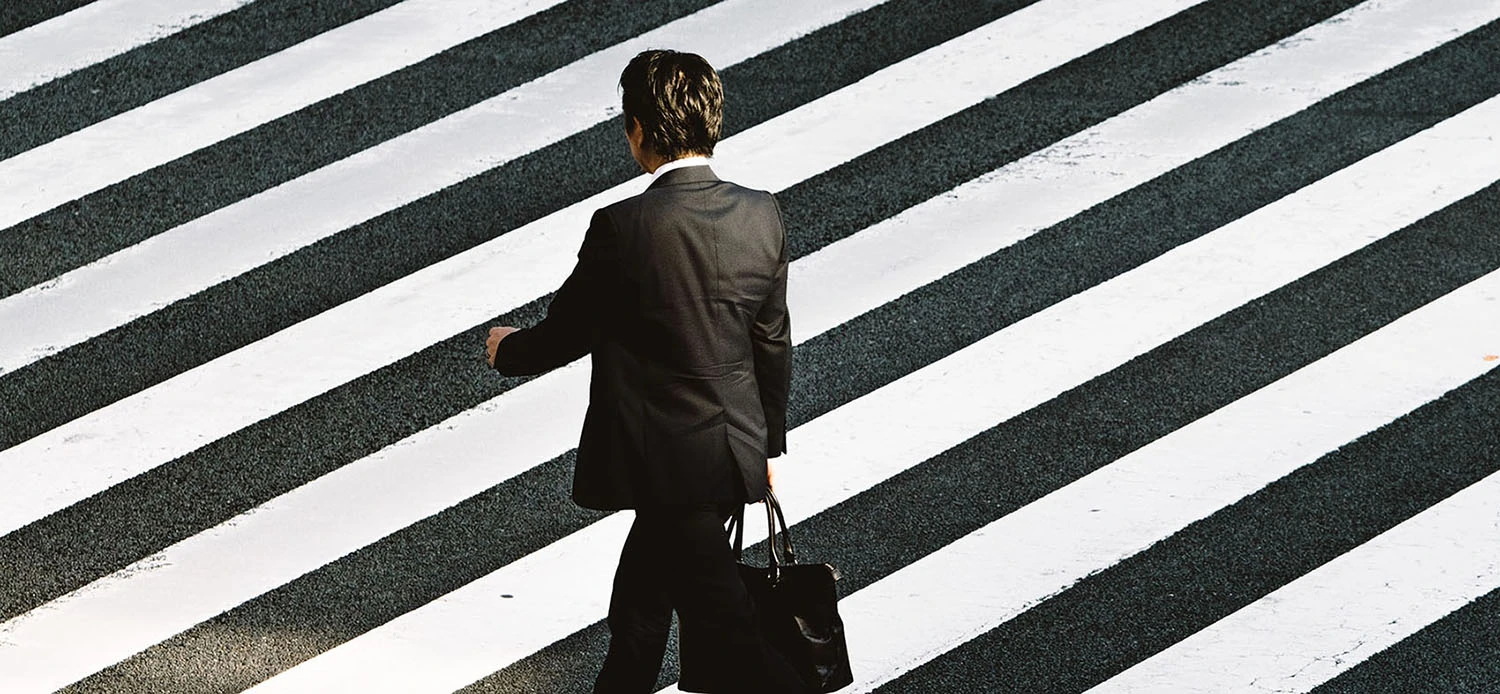
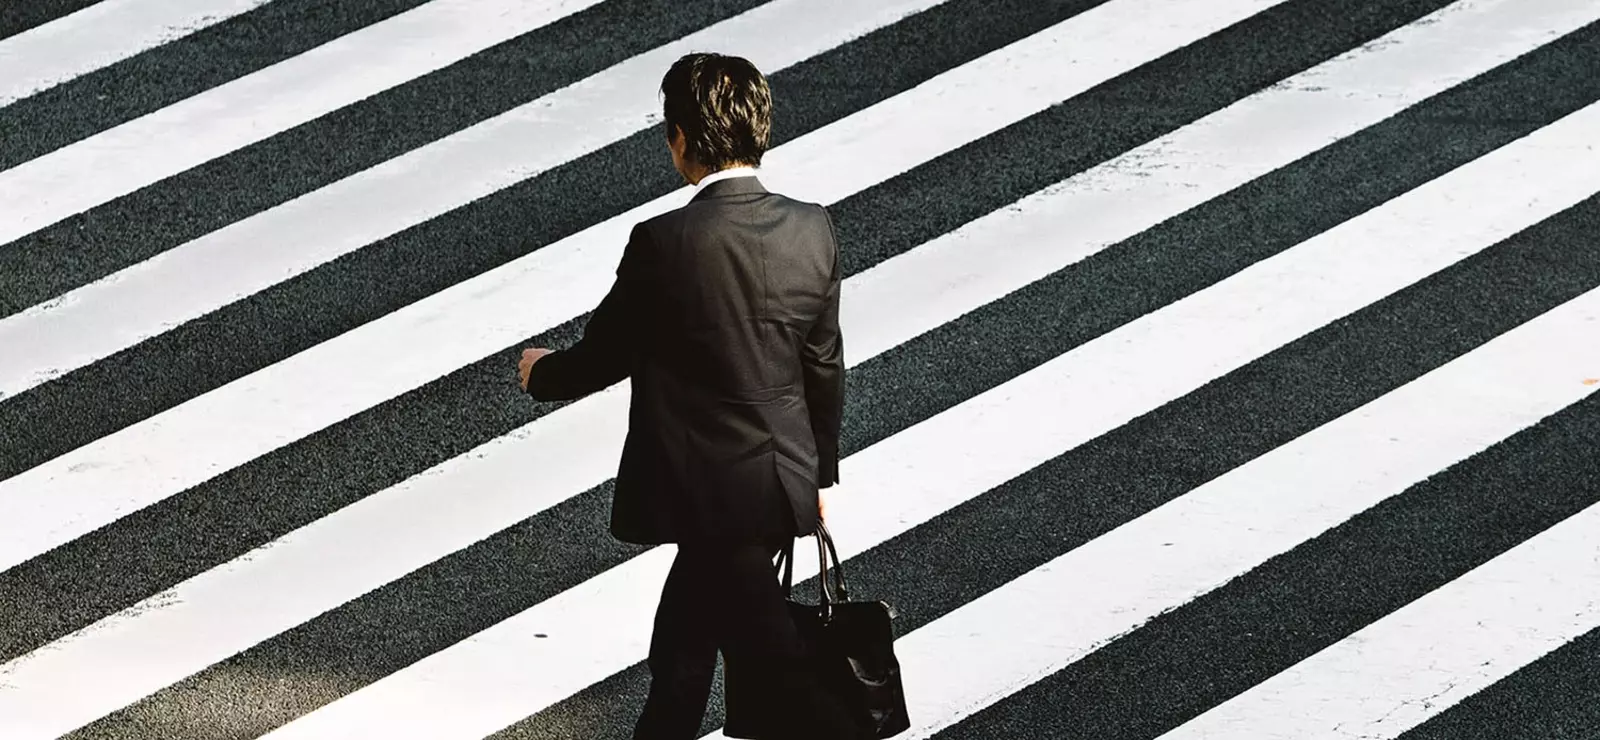
Feat: ajout srcset avec différentes tailles d'images

diff --git a/index.html b/index.html
@@ -4,26 +4,16 @@
     <meta charset="UTF-8">
     <meta name="viewport" content="width=device-width, initial-scale=1.0">
     <title>Bienvenue : Nina Carducci Portfolio</title>
-    <meta
-      name="description"
-      content="Portfolio photographe Nina Carducci, shooting photo, album photos, retouches"
-  >
+    <meta name="description" content="Portfolio photographe Nina Carducci, shooting photo, album photos, retouches">
     <!--Links-->
     <link rel="stylesheet" href="./assets/bootstrap/bootstrap.css" >
     <link rel="stylesheet" href="./assets/style.css" >
     <link rel="preconnect" href="https://fonts.googleapis.com" >
     <link rel="preconnect" href="https://fonts.gstatic.com" crossorigin >
-    <link
-      rel="stylesheet"
-      href="https://fonts.googleapis.com/css2?family=Inter&family=Spectral:ital,wght@0,400;1,300;1,400;1,800&display=swap"
-    >
+    <link rel="stylesheet" href="https://fonts.googleapis.com/css2?family=Inter&family=Spectral:ital,wght@0,400;1,300;1,400;1,800&display=swap">
     <!--Scripts-->
     <script defer src="./assets/bootstrap/bootstrap.bundle.js"></script>
-    <script
-      src="https://code.jquery.com/jquery-3.4.1.min.js"
-      integrity="sha256-CSXorXvZcTkaix6Yvo6HppcZGetbYMGWSFlBw8HfCJo="
-      crossorigin="anonymous"
-    ></script>
+    <script src="https://code.jquery.com/jquery-3.4.1.min.js" integrity="sha256-CSXorXvZcTkaix6Yvo6HppcZGetbYMGWSFlBw8HfCJo=" crossorigin="anonymous"></script>
     <script defer src="./assets/maugallery.js"></script>
     <script defer src="./assets/scripts.js"></script>
   </head>
@@ -82,21 +72,24 @@
           <div class="carousel-item active">
             <img
               src="./assets/images/slider/ryoji-iwata.webp"
-              class="d-block w-100 h-100"
+              srcset="./assets/images/slider/ryoji-iwata-medium.webp 1000w, ./assets/images/slider/ryoji-iwata-small.webp 500w"
+              class="d-block w-100"
               alt="Ryoji Iwata"
             >
           </div>
           <div class="carousel-item">
             <img
               src="./assets/images/slider/nicholas-green.webp"
-              class="d-block w-100 h-100"
+              srcset="./assets/images/slider/nicholas-green-medium.webp 1000w, ./assets/images/slider/nicholas-green-small.webp 500w"
+              class="d-block w-100"
               alt="Nicholas Green"
             >
           </div>
           <div class="carousel-item">
             <img
               src="./assets/images/slider/edward-cisneros.webp"
-              class="d-block w-100 h-100"
+              srcset="./assets/images/slider/edward-cisneros-medium.webp 1000w, ./assets/images/slider/edward-cisneros-small.webp 500w"
+              class="d-block w-100"
               alt="Edward Cisneros"
             >
           </div>
@@ -125,11 +118,12 @@
       <div class="picture left">
         <img
           src="./assets/images/Nina-Carducci.webp"
+          height="450" width="450"
           alt="Photo réprésentant la photographe Nina Carducci"
         >
       </div>
       <div id="about-me">
-        <h1 class="about-me__title">A propos de moi</h1>
+        <h2 class="about-me__title">A propos de moi</h2>
         <p class="about-me__introduction">
           Devenir photographe était pour moi une évidence. Comme si j’y étais
           prédestiné. Saisir un moment, une émotion, une situation, un endroit,
@@ -148,7 +142,7 @@
       </div>
     </section>
     <section id="gallery">
-      <h1 class="title">Portfolio</h1>
+      <h2 class="title">Portfolio</h2>
       <div class="container py-3">
         <div class="gallery" style="display: none">
           <img
@@ -210,12 +204,12 @@
       <div class="quote">
         <figure>
           <blockquote>
-            <h1 class="quote__text">
+            <h3 class="quote__text">
               Un portrait n’est pas une ressemblance. Dès lors qu’une émotion ou
               qu’un fait est traduit en photo, il cesse d’être un fait pour
               devenir une opinion. L’inexactitude n’existe pas en photographie.
               Toutes les photos sont exactes. Aucune d’elles n’est la vérité.
-            </h1>
+            </h3>
           </blockquote>
           <figcaption class="quote__author">- Richard Avedon</figcaption>
         </figure>
@@ -269,11 +263,11 @@
     <section class="quote">
       <figure>
         <blockquote>
-          <h1 class="quote__text">
+          <h3 class="quote__text">
             De manière inconsciente, je crois, je guette un regard, une
             expression, des traits ou une nostalgie capable de résumer ou plus
             exactement de révéler une vie
-          </h1>
+          </h3>
         </blockquote>
         <figcaption class="quote__author">- Richard Avedon</figcaption>
       </figure>
@@ -303,6 +297,7 @@
         <div class="picture right">
           <img
             src="./assets/images/appareil-photo.webp"
+            height="450" width="450"
             alt="Photo réprésentant un appareil photo"
           >
         </div>

diff --git a/assets/style.css b/assets/style.css
@@ -55,13 +55,6 @@ body {
   width: 100%;
   height: auto;
 }
-@media all and (max-width: 1000px) {
-  #about img {
-    width: 250px;
-    height: 250px;
-  }
-}
-
 .picture.left::before {
   content: " ";
   background-color: #e5975f;
